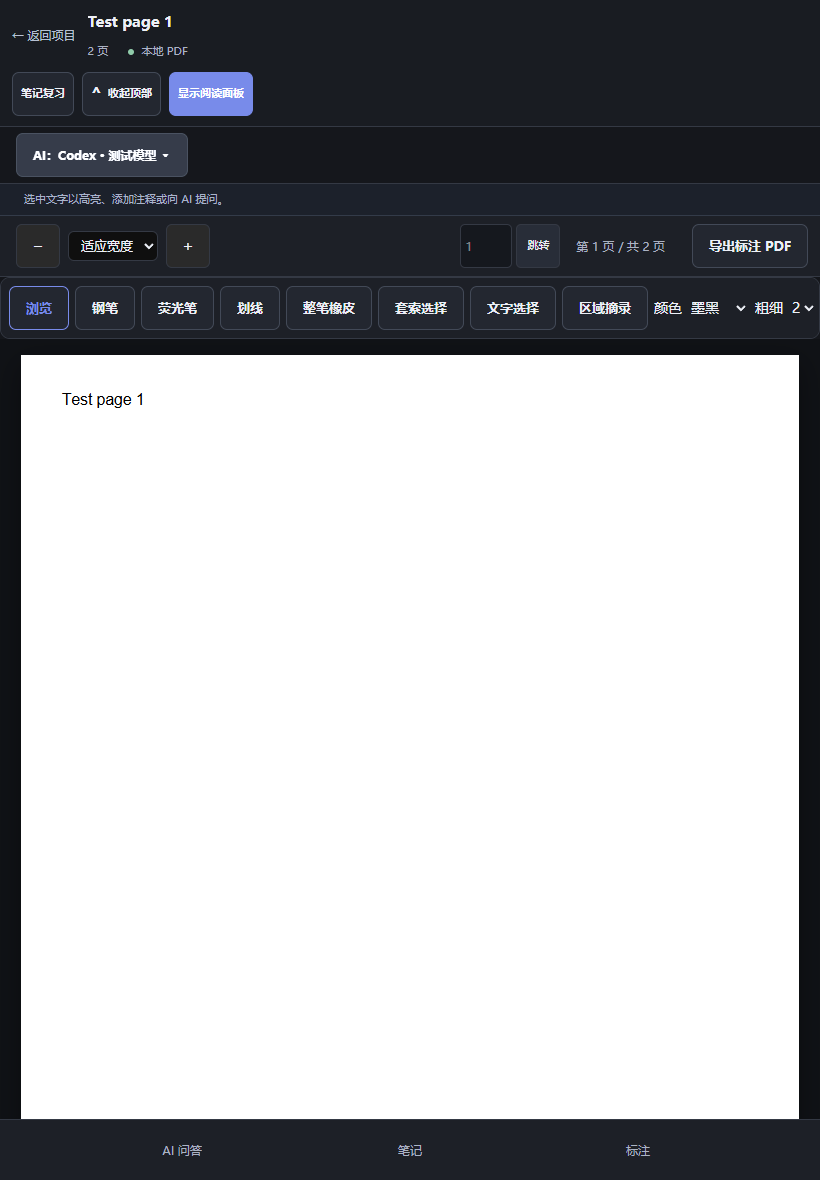
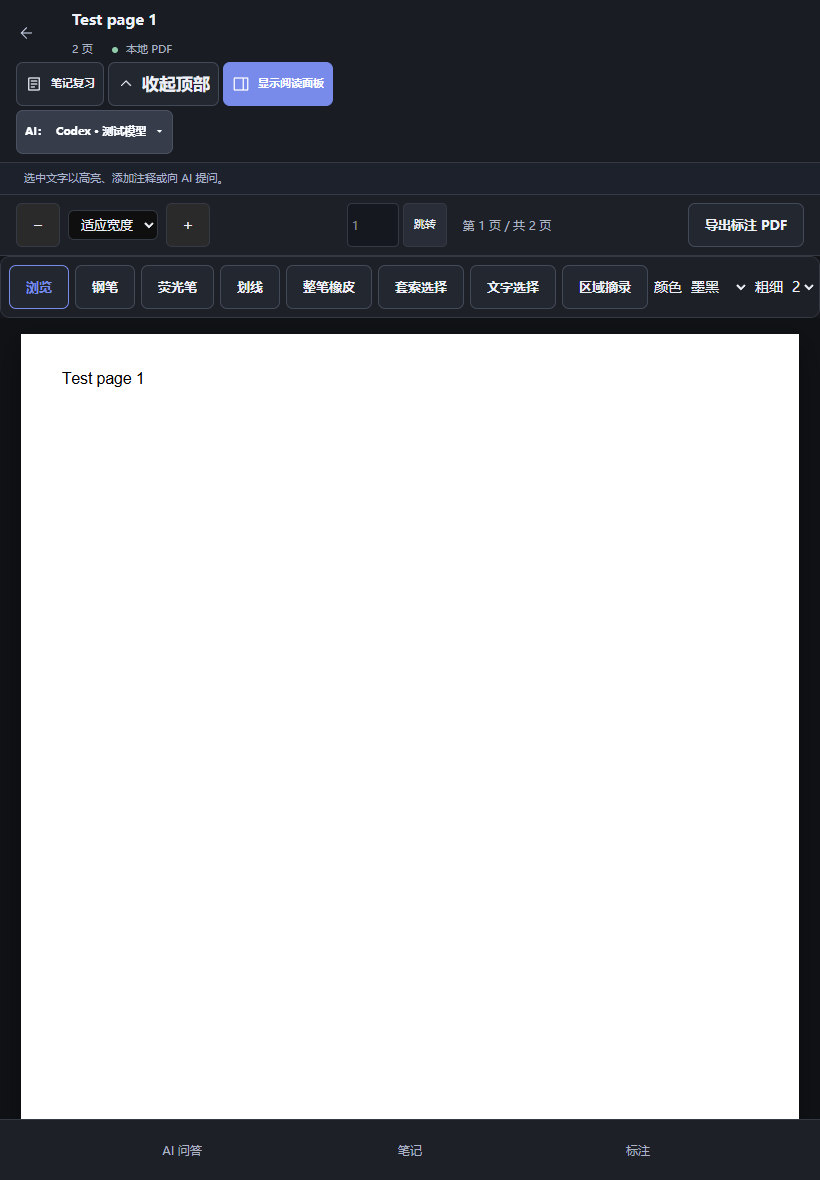
fix: compact collapsed reader chrome and release Windows 1.3.1

Changed region(s): [[0.0, 0.0, 1.0, 0.3661], [0.4268, 0.1525, 0.4878, 0.1831]]

diff --git a/frontend/src/pages/ReaderPage.tsx b/frontend/src/pages/ReaderPage.tsx
@@ -1,6 +1,7 @@
 import InkReview from '../ink/InkReview'
 import useReaderLayout from '../hooks/useReaderLayout'
 import ReaderTools from '../components/ReaderTools'
+import ReaderIcon from '../components/ReaderIcon'
 import {useEffect,useRef,useState} from 'react'
 import {Link,useParams,useNavigate,useLocation} from 'react-router-dom'
 import PdfViewer from '../components/PdfViewer'
@@ -73,28 +74,30 @@ export default function ReaderPage({documentSourceId,initialNoteId}:{documentSou
  function openReference(reference:ChatReference){if(reference.sourceId===sourceId){setPageRequest({page:reference.page,key:Date.now(),excerpt:reference.excerpt});setNotice('已跳转到引用页；匹配到的原文会临时标亮。')}else navigate('/projects/'+projectId+'/sources/'+reference.sourceId,{state:{citation:reference,returnContext:originContext()}})}
  function saveProgress(page:number){readingPage.current=page;if(progress.current)clearTimeout(progress.current);progress.current=setTimeout(()=>{sourcesApi.updateLastPageRead(projectId!,sourceId!,page).catch(()=>{})},500)}
  function openAnchor(anchor:NoteAnchor){if(anchor.sourceId!==sourceId){navigate(`/projects/${projectId}/sources/${anchor.sourceId}`,{state:{citation:{sourceId:anchor.sourceId,page:anchor.page,excerpt:anchor.text},returnContext:originContext()}});return}const changed=anchor.contentHash&&source?.content_hash&&anchor.contentHash!==source.content_hash;setPageRequest({page:anchor.page,key:Date.now(),excerpt:anchor.text,rects:changed?undefined:anchor.rects});setNotice(changed?'文件内容已改变，文字匹配位置需核实。':'已定位笔记对应的原文。');if(review)setFocused(false)}
- return <div className={`reading-workspace ${review?'is-review':''}`} style={{'--viewport-height':viewportHeight+'px'} as React.CSSProperties}>
+ return <div className={`reading-workspace ${review?'is-review':''} ${topCollapsed?'is-top-collapsed':''}`} style={{'--viewport-height':viewportHeight+'px'} as React.CSSProperties}>
   <div className={`reader-topbar ${topCollapsed?'is-collapsed':''}`}>
    <header className="reading-header">
-    <Link to={`/projects/${projectId}`} className="reader-back">← 返回项目</Link>
+    <Link to={`/projects/${projectId}`} className="reader-back" aria-label="返回项目" title="返回项目"><ReaderIcon name="back"/><span className="reader-action-label">返回项目</span></Link>
     <div className="reading-title">
      <h1 title={source?.title}>{source?.title||'正在加载文献…'}</h1>
      {!topCollapsed&&<span>{source?.pages||0} {source?.type==='text'?'段':'页'} <span className="status-dot"/>{source?.type==='text'?'本地文档':'本地 PDF'}</span>}
     </div>
-    <div className="reader-header-actions"><button className="secondary" onClick={()=>{setReview(v=>!v);setFocused(!review&&window.innerWidth<900);setPanel('notes')}}>{review?'返回阅读':'笔记复习'}</button>{review&&<button className="secondary" onClick={()=>setFocused(v=>!v)}>{focused?'显示原文':'收起原文'}</button>}
+    <AiControlPanel compact minimized/>
+    <div className="reader-header-actions"><button className="secondary" aria-label={review?'返回阅读':'笔记复习'} title={review?'返回阅读':'笔记复习'} onClick={()=>{setReview(v=>!v);setFocused(!review&&window.innerWidth<900);setPanel('notes')}}><ReaderIcon name="notes"/><span className="reader-action-label">{review?'返回阅读':'笔记复习'}</span></button>{review&&<button className="secondary" aria-label={focused?'显示原文':'收起原文'} title={focused?'显示原文':'收起原文'} onClick={()=>setFocused(v=>!v)}><ReaderIcon name="panel"/><span className="reader-action-label">{focused?'显示原文':'收起原文'}</span></button>}
      <button type="button" className="secondary reader-top-toggle" aria-expanded={!topCollapsed}
+      aria-label={topCollapsed?'展开顶部':'收起顶部'}
       disabled={!layoutReady} aria-disabled={savingLayout} onClick={()=>void toggleTop()}
       title={topCollapsed?'展开文献信息与 AI 用量':'将顶部缩成工具栏，扩大阅读区域'}>
-      <span aria-hidden="true">{topCollapsed?'⌄':'⌃'}</span>{topCollapsed?'展开顶部':'收起顶部'}
+      <ReaderIcon name={topCollapsed?'down':'up'}/><span className="reader-action-label">{topCollapsed?'展开顶部':'收起顶部'}</span>
      </button>
-     <button className={focused?'primary':'secondary'} aria-pressed={focused} onClick={()=>setFocused(value=>!value)}>{focused?'显示阅读面板':'收起面板'}</button>
+     <button className={focused?'primary':'secondary'} aria-label={focused?'显示阅读面板':'收起面板'} title={focused?'显示阅读面板':'收起面板'} aria-pressed={focused} onClick={()=>setFocused(value=>!value)}><ReaderIcon name="panel"/><span className="reader-action-label">{focused?'显示阅读面板':'收起面板'}</span></button>
+     {returnContext&&<button className="secondary" aria-label="返回引用位置" title="返回引用位置" onClick={()=>navigate(returnContext.route,{state:{restoreContext:returnContext}})}>↶<span className="reader-action-label">返回引用位置</span></button>}
     </div>
    </header>
-   <AiControlPanel compact minimized/>{returnContext&&<button className="secondary" onClick={()=>navigate(returnContext.route,{state:{restoreContext:returnContext}})}>返回引用位置</button>}
   </div>
   {(notice||!topCollapsed)&&<div className={`reading-notice ${topCollapsed?'is-floating':''}`} aria-live="polite">{notice||'选中文字以高亮、添加注释或向 AI 提问。'}{deletedAnnotation&&<button onClick={()=>void undoAnnotationDelete()}>撤销删除标注</button>}{notice&&<button aria-label="关闭提示" onClick={()=>setNotice('')}>×</button>}</div>}
   <main id="main-content" style={{'--panel-width':panelWidth+'px'} as React.CSSProperties} className={`reading-layout study-layout ${focused?'is-focused':''} ${review?'review-layout':''}`}>
-   <section className="paper-stage" aria-label="PDF 阅读区">{loading?<div className="empty-state">正在加载 PDF…</div>:source?<Viewer inkContext={source.type!=='text'&&source.content_hash?{projectId:projectId!,sourceId:sourceId!,contentHash:source.content_hash}:undefined} text={source.pdf_text||''} markdown={source.media_type!=='text/plain'} key={source.id} url={`/api/projects/${projectId}/sources/${sourceId}/file`} pages={source.pages} initialPage={source.last_page_read} pageRequest={pageRequest} annotations={annotations} onPageChange={saveProgress} onTextSelected={(text,anchors)=>{setQuote(text);setSelectionAnchor((anchors||[]).map(anchor=>({...anchor,unit:source.type==='text'?'paragraph' as const:'page' as const,sourceId:sourceId!,contentHash:source.content_hash})));setFocused(false);setPanel('chat')}} onHighlightCreate={data=>create(data)} onNoteCreate={data=>create(data,true)} onAnchoredNote={anchors=>{setDraftRequest({key:Date.now(),draft:{title:anchors[0].text.slice(0,40)||'原文笔记',content:'',tags:[],anchors:anchors.map(anchor=>({...anchor,unit:source.type==='text'?'paragraph' as const:'page' as const,sourceId:sourceId!,contentHash:source.content_hash}))}});setPanel('notes');setFocused(false)}} onHighlightClick={select} onHighlightDelete={remove}/>:<p className="error-message">无法打开 PDF，请返回项目重试。</p>}</section>
+   <section className="paper-stage" aria-label="PDF 阅读区">{loading?<div className="empty-state">正在加载 PDF…</div>:source?<Viewer compactToolbar={topCollapsed} inkContext={source.type!=='text'&&source.content_hash?{projectId:projectId!,sourceId:sourceId!,contentHash:source.content_hash}:undefined} text={source.pdf_text||''} markdown={source.media_type!=='text/plain'} key={source.id} url={`/api/projects/${projectId}/sources/${sourceId}/file`} pages={source.pages} initialPage={source.last_page_read} pageRequest={pageRequest} annotations={annotations} onPageChange={saveProgress} onTextSelected={(text,anchors)=>{setQuote(text);setSelectionAnchor((anchors||[]).map(anchor=>({...anchor,unit:source.type==='text'?'paragraph' as const:'page' as const,sourceId:sourceId!,contentHash:source.content_hash})));setFocused(false);setPanel('chat')}} onHighlightCreate={data=>create(data)} onNoteCreate={data=>create(data,true)} onAnchoredNote={anchors=>{setDraftRequest({key:Date.now(),draft:{title:anchors[0].text.slice(0,40)||'原文笔记',content:'',tags:[],anchors:anchors.map(anchor=>({...anchor,unit:source.type==='text'?'paragraph' as const:'page' as const,sourceId:sourceId!,contentHash:source.content_hash}))}});setPanel('notes');setFocused(false)}} onHighlightClick={select} onHighlightDelete={remove}/>:<p className="error-message">无法打开 PDF，请返回项目重试。</p>}</section>
    <div className="reader-divider" role="separator" aria-label="调整阅读面板宽度" aria-orientation="vertical" aria-valuemin={320} aria-valuemax={720} aria-valuenow={Math.round(panelWidth)} tabIndex={0} onKeyDown={e=>{if(e.key==='ArrowLeft'||e.key==='ArrowRight'){e.preventDefault();setPanelWidth(Math.max(320,Math.min(720,panelWidth+(e.key==='ArrowLeft'?20:-20))))}}} onPointerDown={e=>{e.currentTarget.setPointerCapture(e.pointerId)}} onPointerMove={e=>{if(e.currentTarget.hasPointerCapture(e.pointerId))setPanelWidth(Math.max(320,Math.min(720,window.innerWidth-e.clientX)))}}/>
    <aside ref={panelRef} onKeyDown={event=>{
      if(window.innerWidth>=900||review)return

diff --git a/frontend/src/components/PdfViewer.tsx b/frontend/src/components/PdfViewer.tsx
@@ -21,6 +21,7 @@ pdfjs.GlobalWorkerOptions.workerSrc = new URL('pdfjs-dist/build/pdf.worker.min.m
 type PageRect = { x1: number; y1: number; x2: number; y2: number }
 
 interface Props {
+  compactToolbar?:boolean
   inkContext?:PdfInkContext
   text?: string
   markdown?: boolean
@@ -115,11 +116,13 @@ const PDF_OPTIONS = {
 }
 
 export default function PdfViewer({
-  url, inkContext, initialPage = 1, pageRequest, isResizing, onPageChange, onTextSelected,
+  url, inkContext, compactToolbar=false, initialPage = 1, pageRequest, isResizing, onPageChange, onTextSelected,
   annotations, onHighlightCreate, onNoteCreate, onAnchoredNote, onHighlightClick, onHighlightDelete,
 }: Props) {
   const requestedPage = normalizePage(pageRequest?.page??initialPage)
   const [inkSettings,setInkSettings]=useState(defaultInkSettings)
+  const [annotationToolsOpen,setAnnotationToolsOpen]=useState(false)
+  const showInkTools=!compactToolbar||annotationToolsOpen||inkSettings.mode!=='browse'
   const [numPages, setNumPages] = useState(0)
   const [currentPage, setCurrentPage] = useState(requestedPage)
   const [restored, setRestored] = useState(false)
@@ -325,15 +328,17 @@ export default function PdfViewer({
   }
 
   return (
-    <div ref={containerRef} style={{ height: '100%', display: 'flex', flexDirection: 'column', background: 'var(--bg)', position: 'relative' }}>
+    <div ref={containerRef} className={compactToolbar?'pdf-viewer is-compact':'pdf-viewer'} style={{ height: '100%', display: 'flex', flexDirection: 'column', background: 'var(--bg)', position: 'relative' }}>
       {/* Toolbar */}
       <div className="pdf-toolbar" style={{
         display: 'flex', alignItems: 'center', gap: 8, minHeight: 46, padding: '8px 16px',
         background: 'var(--panel)', borderBottom: '1px solid var(--border)',
         flexShrink: 0, flexWrap: 'wrap',
       }}>
+        {compactToolbar&&inkContext&&<div className="pdf-mode-tabs" role="group" aria-label="阅读模式"><button aria-pressed={!showInkTools} onClick={()=>{setAnnotationToolsOpen(false);setInkSettings(value=>({...value,mode:'browse'}))}}>阅读</button><button aria-pressed={showInkTools} onClick={()=>setAnnotationToolsOpen(true)}>批注</button></div>}
         <button onClick={zoomOut} title="缩小" style={btnStyle}>−</button>
         <select
+          aria-label="缩放比例"
           value={fitWidth ? 'fit' : String(scale)}
           onChange={e => e.target.value === 'fit' ? setFit() : setZoomLevel(parseFloat(e.target.value))}
           style={{ background: '#0f0f0f', color: 'var(--text)', border: '1px solid var(--border)', borderRadius: 6, padding: '3px 8px', fontSize: 13, cursor: 'pointer' }}
@@ -344,19 +349,21 @@ export default function PdfViewer({
           ))}
         </select>
         <button onClick={zoomIn} title="放大" style={btnStyle}>+</button>
+        {compactToolbar&&<button aria-label="上一页" title="上一页" disabled={currentPage<=1} onClick={()=>jump(currentPage-1)} style={btnStyle}>‹</button>}
         <form className="page-jump" onSubmit={event=>{event.preventDefault();const page=Number(pageDraft);if(Number.isInteger(page)&&page>0)jump(page);setPageDraft('')}}>
-          <input aria-label="跳转页码" name="pdfPage" inputMode="numeric" type="number" min={1} max={numPages||1} placeholder={String(currentPage)} value={pageDraft} onChange={event=>setPageDraft(event.target.value)}/><button type="submit">跳转</button>
+          <input aria-label="跳转页码" name="pdfPage" inputMode="numeric" type="number" min={1} max={numPages||1} placeholder={String(currentPage)} value={pageDraft} onChange={event=>setPageDraft(event.target.value)}/>{compactToolbar&&<span className="pdf-page-total" aria-hidden="true">/ {numPages||'…'}</span>}<button type="submit" aria-label="跳转" title="跳转页码">{compactToolbar?'↵':'跳转'}</button>
         </form>
+        {compactToolbar&&<button aria-label="下一页" title="下一页" disabled={!numPages||currentPage>=numPages} onClick={()=>jump(currentPage+1)} style={btnStyle}>›</button>}
         {numPages > 0 && (
-          <span data-testid="page-progress" aria-live="polite" style={{ marginLeft: 8, fontSize: 12, color: 'var(--muted)' }}>
+          <span className="pdf-page-progress" data-testid="page-progress" aria-live="polite" style={{ marginLeft: 8, fontSize: 12, color: 'var(--muted)' }}>
             第 {Math.min(currentPage, numPages)} 页 / 共 {numPages} 页
           </span>
         )}
+        {inkContext&&<div className="pdf-export-action"><ExportDialog compact={compactToolbar} projectId={inkContext.projectId} sourceId={inkContext.sourceId}/></div>}
       </div>
 
-      {inkContext&&<div className="pdf-export-action"><ExportDialog projectId={inkContext.projectId} sourceId={inkContext.sourceId}/></div>}
       {/* PDF scroll area */}
-      {inkContext&&<InkToolbar sourceTools settings={inkSettings} onChange={setInkSettings}/>}
+      {inkContext&&showInkTools&&<InkToolbar sourceTools settings={inkSettings} onChange={setInkSettings}/>}
       <div ref={scrollRef} data-testid="pdf-scroll-area" style={{ flex: 1, overflow: 'auto', padding: '16px 0' }}>
         <Document
           key={url}

diff --git a/frontend/src/styles/reader-chrome.css b/frontend/src/styles/reader-chrome.css
@@ -1,0 +1,65 @@
+/* A document strip and a reading strip; extra tools stay with the task. */
+.reader-topbar .reading-header {
+ display:grid;grid-template-columns:auto minmax(0,1fr) auto;
+ grid-template-areas:"back title actions" "ai ai ai";
+ height:auto;min-height:0;padding:8px 16px;gap:4px 12px;
+}
+.reading-header .reader-back {grid-area:back;display:inline-flex;align-items:center;gap:6px;order:0;min-height:44px}
+.reading-header .reading-title {grid-area:title;min-width:0;order:0}
+.reading-header .reader-header-actions {grid-area:actions;order:0;width:auto;margin:0;gap:4px}
+.reading-header>.ai-entry {grid-area:ai;min-width:0;padding:0;border:0}
+.reading-header .ai-entry>button {max-width:100%;overflow:hidden;white-space:nowrap}
+.reading-header .ai-entry-model {min-width:0;overflow:hidden;text-overflow:ellipsis}
+.reader-header-actions svg {flex-shrink:0}
+.reader-topbar.is-collapsed {display:block;min-height:0;border:0}
+.reader-topbar.is-collapsed .reading-header {
+ grid-template-columns:44px minmax(0,1fr) auto auto;
+ grid-template-areas:"back title ai actions";
+ height:49px;min-height:49px;padding:2px 8px;gap:4px;border-bottom:1px solid var(--border);
+}
+.reader-topbar.is-collapsed .reader-action-label {display:none}
+.reader-topbar.is-collapsed .reader-back {justify-content:center;padding:0}
+.reader-topbar.is-collapsed .reading-title h1 {margin:0;font-size:12px;line-height:1.4}
+.reader-topbar.is-collapsed .reader-header-actions button {
+ width:44px;min-width:44px;height:44px;min-height:44px;padding:0;border-color:transparent;background:transparent;
+}
+.reader-topbar.is-collapsed .reader-header-actions button:hover {background:#2b3341}
+.reader-topbar.is-collapsed .reader-header-actions button[aria-pressed=true] {color:#c6d1ff;background:#2b3341}
+.reader-topbar.is-collapsed .ai-entry {padding:0;max-width:230px}
+.reader-topbar.is-collapsed .ai-entry>button {height:44px;min-height:44px;padding:4px 8px;gap:3px;font-size:11px;background:transparent;border-color:transparent}
+.reading-header .ai-entry-popover {position:absolute;right:8px;top:100%;max-width:calc(100vw - 16px);z-index:70}
+.reading-header .ai-entry {position:relative}
+.pdf-viewer .pdf-toolbar {padding-right:16px!important}
+.pdf-viewer .pdf-export-action {position:static;align-self:auto;margin:0 0 0 auto;flex-shrink:0}
+.pdf-viewer.is-compact .pdf-toolbar {
+ height:53px;min-height:53px;flex-wrap:nowrap!important;gap:4px!important;padding:4px 8px!important;
+ overflow-x:auto;overscroll-behavior-x:contain;scrollbar-width:thin;
+}
+.pdf-viewer.is-compact .pdf-toolbar>* {flex-shrink:0}
+.pdf-mode-tabs {display:flex;align-self:stretch;gap:2px;margin-right:8px;border-right:1px solid var(--border);padding-right:8px}
+.pdf-mode-tabs button {border:0;border-bottom:2px solid transparent;background:transparent;color:var(--muted);padding:0 8px;white-space:nowrap;font:inherit;font-size:12px}
+.pdf-mode-tabs button[aria-pressed=true] {color:#d9e1ff;border-bottom-color:var(--accent)}
+.pdf-viewer.is-compact .pdf-toolbar>button,.pdf-viewer.is-compact .pdf-mode-tabs>button,.pdf-viewer.is-compact .page-jump>button,.pdf-viewer.is-compact .pdf-export-action>button {height:44px;min-height:44px;min-width:44px;padding:4px 8px;border-radius:4px}
+.pdf-viewer.is-compact .pdf-toolbar select {height:36px;max-width:110px}
+.pdf-viewer.is-compact .page-jump {align-items:center;margin:0 4px;gap:4px}
+.pdf-viewer.is-compact .page-jump input {height:32px;width:44px;text-align:center;appearance:textfield}
+.pdf-viewer.is-compact .page-jump input::-webkit-inner-spin-button {appearance:none}
+.pdf-page-total {color:var(--muted);font-size:12px;white-space:nowrap}
+.pdf-viewer.is-compact .pdf-page-progress {position:absolute;width:1px;height:1px;overflow:hidden;clip-path:inset(50%);white-space:nowrap}
+.pdf-viewer.is-compact .pdf-export-action {padding-left:8px;border-left:1px solid var(--border)}
+.pdf-viewer.is-compact .pdf-export-action>button {width:44px}
+.pdf-viewer.is-compact>.ink-toolbar {flex-wrap:nowrap;overflow-x:auto;flex-shrink:0;max-height:57px;gap:4px;padding:6px 8px;border:0;border-bottom:1px solid var(--border);border-radius:0;scrollbar-width:thin}
+.pdf-viewer.is-compact>.ink-toolbar>* {flex-shrink:0;white-space:nowrap}
+.pdf-viewer.is-compact>.ink-toolbar button {padding:4px 10px;font-size:12px}
+@media(max-width:899px) {
+ .reader-topbar:not(.is-collapsed) .reading-header {grid-template-columns:44px minmax(0,1fr);grid-template-areas:"back title" "actions actions" "ai ai"}
+ .reader-topbar:not(.is-collapsed) .reader-header-actions {flex-wrap:wrap}
+ .reader-topbar:not(.is-collapsed) .reader-back .reader-action-label {display:none}
+}
+@media(max-width:600px) {
+ .reader-topbar.is-collapsed .ai-entry-model {display:none}
+ .reader-topbar.is-collapsed .ai-entry>button {width:44px;padding:0}
+ .reader-topbar.is-collapsed .reading-header {gap:2px;padding:2px 4px}
+ .reader-topbar.is-collapsed .reader-header-actions {gap:0}
+ .reading-header .ai-entry-popover {position:fixed;left:8px;right:8px;top:53px;max-width:none}
+}

diff --git a/frontend/src/components/AiControlPanel.tsx b/frontend/src/components/AiControlPanel.tsx
@@ -6,7 +6,7 @@ import { formatTokens } from './AiUsageView'
 export default function AiControlPanel({ compact = false, minimized = false }: { compact?: boolean; minimized?: boolean }) {
   const { agent, setAgent, agents, current, loading, error, refresh } = useAgent()
   const [settings, setSettings] = useState<string | null>(null), [expanded, setExpanded] = useState(!compact)
-  if(minimized)return <section className="ai-entry" aria-label="AI 服务选择与用量"><button className="secondary" aria-expanded={expanded} onClick={()=>setExpanded(v=>!v)}>AI：{current?.label||'未选择'} · {current?.model||'默认模型'} ▾</button>{expanded&&<div className="ai-entry-popover"><AgentSelect agent={agent} setAgent={setAgent} agents={agents}/><p>{current?.available?'当前工具可用':current?.status||'请选择或配置 AI'}</p><p>{current?.usage.reportedCalls?`本软件累计 ${formatTokens(current.usage.totalTokens)} tokens`:'尚无可读取用量'}</p><button className="secondary" onClick={()=>setSettings(current?.id||'api-deepseek')}>配置 AI</button><button className="text-button" onClick={()=>void refresh()}>重新检测</button>{error&&<p role="alert">{error}</p>}</div>}{settings&&<AiSettingsDialog initialProvider={settings} onClose={()=>setSettings(null)}/>}</section>
+  if(minimized)return <section className="ai-entry" aria-label="AI 服务选择与用量"><button className="secondary" aria-expanded={expanded} onClick={()=>setExpanded(v=>!v)} title={`AI：${current?.label||'未选择'} · ${current?.model||'默认模型'}`}>AI：<span className="ai-entry-model">{current?.label||'未选择'} · {current?.model||'默认模型'}</span><span aria-hidden="true"> ▾</span></button>{expanded&&<div className="ai-entry-popover"><AgentSelect agent={agent} setAgent={setAgent} agents={agents}/><p>{current?.available?'当前工具可用':current?.status||'请选择或配置 AI'}</p><p>{current?.usage.reportedCalls?`本软件累计 ${formatTokens(current.usage.totalTokens)} tokens`:'尚无可读取用量'}</p><button className="secondary" onClick={()=>setSettings(current?.id||'api-deepseek')}>配置 AI</button><button className="text-button" onClick={()=>void refresh()}>重新检测</button>{error&&<p role="alert">{error}</p>}</div>}{settings&&<AiSettingsDialog initialProvider={settings} onClose={()=>setSettings(null)}/>}</section>
   return <section className={`ai-console ${compact ? 'is-compact' : ''} ${minimized ? 'is-minimized' : ''}`} aria-label="AI 服务选择与用量">
     <header className="ai-console-header"><div><h2>{compact ? '阅读助手' : '研究助手'}</h2><p>{compact ? current?.label || '选择问答工具' : '选择本次研究使用的 AI，文献库与手动笔记始终在本机。'}</p></div><div className="ai-console-actions">{compact && <AgentSelect agent={agent} setAgent={setAgent} agents={agents}/>}<button className="secondary" onClick={() => setSettings(current?.id || 'api-deepseek')}>AI 设置</button>{!minimized && <button className="text-button" onClick={() => { void refresh() }} aria-label="重新检测 AI 工具">重新检测</button>}{compact && !minimized && <button className="text-button" aria-expanded={expanded} onClick={() => setExpanded(value => !value)}>{expanded ? '收起' : '全部服务'}</button>}</div></header>
     {error && <p className="error-message" role="alert">{error}</p>}{loading && <p className="ai-form-hint">正在检测本机工具…</p>}

diff --git a/frontend/e2e/reader-toolbar.spec.ts b/frontend/e2e/reader-toolbar.spec.ts
@@ -100,4 +100,43 @@ test.describe('collapsible reader toolbar', () => {
     expect(await page.evaluate(() => document.documentElement.scrollWidth <= window.innerWidth)).toBe(true);
     await page.screenshot({ path: test.info().outputPath('reader-collapsed-narrow.png') });
   });
+
+  for (const width of [1440, 1024, 390]) {
+    test(`collapsed reader leaves a two-row header at ${width}px`, async ({ page }) => {
+      await page.setViewportSize({ width, height: 900 });
+      const project = await createProjectViaApi(page, 'Compact reading chrome'), source = await upload(page, project.id);
+      await reader(page, project.id, source.id);
+      await page.getByRole('button', { name: '收起顶部', exact: true }).click();
+      await expect(page.getByRole('button', { name: '展开顶部', exact: true })).toBeEnabled();
+      const header = (await page.locator('.reader-topbar').boundingBox())!;
+      const paper = (await page.getByTestId('pdf-scroll-area').boundingBox())!;
+      expect(header.height).toBeLessThanOrEqual(52);
+      expect(paper.y).toBeLessThanOrEqual(112);
+      await expect(page.getByRole('toolbar', { name: '手写工具', exact: true })).toBeHidden();
+      expect(await page.evaluate(() => document.documentElement.scrollWidth <= innerWidth)).toBe(true);
+      await page.getByRole('button', { name: '批注', exact: true }).click();
+      const ink = page.getByRole('toolbar', { name: '手写工具', exact: true });
+      await expect(ink).toBeVisible();
+      expect((await ink.boundingBox())!.height).toBeLessThanOrEqual(60);
+      await ink.getByRole('button', { name: '钢笔', exact: true }).click();
+      await expect(ink.getByRole('button', { name: '钢笔', exact: true })).toHaveAttribute('aria-pressed', 'true');
+      await page.getByRole('button', { name: '阅读', exact: true }).click();
+      await expect(ink).toBeHidden();
+      expect((await page.getByTestId('pdf-scroll-area').boundingBox())!.y).toBeLessThanOrEqual(112);
+      await page.getByLabel('跳转页码', { exact: true }).fill('2');
+      await page.getByLabel('跳转页码', { exact: true }).press('Enter');
+      await expect(page.getByTestId('page-progress')).toHaveText('第 2 页 / 共 2 页');
+      await page.getByRole('button', { name: '上一页', exact: true }).click();
+      await expect(page.getByTestId('page-progress')).toHaveText('第 1 页 / 共 2 页');
+      await page.getByRole('button', { name: '下一页', exact: true }).click();
+      await expect(page.getByTestId('page-progress')).toHaveText('第 2 页 / 共 2 页');
+      await page.getByRole('button', { name: '阅读', exact: true }).click();
+      await page.screenshot({ path: test.info().outputPath(`compact-reader-${width}.png`) });
+      await page.getByRole('button', { name: '批注', exact: true }).click();
+      await expect(ink.getByRole('button', { name: '浏览', exact: true })).toHaveAttribute('aria-pressed', 'true');
+      await page.getByRole('button', { name: '导出标注 PDF', exact: true }).click();
+      await expect(page.getByRole('dialog', { name: '导出标注 PDF' })).toBeVisible();
+      expect((await page.getByRole('button', { name: '下载 PDF 副本', exact: true }).boundingBox())!.width).toBeGreaterThan(110);
+    });
+  }
 });

diff --git a/frontend/src/components/ExportDialog.tsx b/frontend/src/components/ExportDialog.tsx
@@ -1,8 +1,9 @@
 import {useState} from 'react'
 import Dialog from './ui/Dialog'
+import ReaderIcon from './ReaderIcon'
 import {hasPendingInk} from '../ink/draft-store'
-export default function ExportDialog({projectId,sourceId}:{projectId:string;sourceId:string}){
+export default function ExportDialog({projectId,sourceId,compact=false}:{projectId:string;sourceId:string;compact?:boolean}){
  const [open,setOpen]=useState(false),[error,setError]=useState(''),[busy,setBusy]=useState(false)
  async function download(){setBusy(true);setError('');try{if(await hasPendingInk(projectId,sourceId))throw new Error('仍有手写尚未保存，请先完成同步或处理冲突。');const response=await fetch(`/api/projects/${projectId}/exports`,{method:'POST',headers:{'Content-Type':'application/json'},body:JSON.stringify({kind:'source',id:sourceId})});if(!response.ok)throw new Error((await response.json()).detail||'导出失败。');const url=URL.createObjectURL(await response.blob()),link=document.createElement('a');link.href=url;link.download='标注文献.pdf';link.click();setTimeout(()=>URL.revokeObjectURL(url),60000);setOpen(false)}catch(e){setError((e as Error).message)}finally{setBusy(false)}}
- return <><button className="secondary" onClick={()=>setOpen(true)}>导出标注 PDF</button>{open&&<Dialog open={open} title="导出标注 PDF" onClose={()=>setOpen(false)}><p>导出整篇文献，合并已保存的高光与笔迹，另存为 PDF 副本。</p><p>可编辑笔迹请另行备份。</p>{error&&<p role="alert">{error}</p>}<button className="primary" disabled={busy} onClick={()=>void download()}>{busy?'正在生成…':'下载 PDF 副本'}</button></Dialog>}</>
+ return <><button className="secondary" aria-label="导出标注 PDF" title="导出标注 PDF" onClick={()=>setOpen(true)}>{compact?<ReaderIcon name="download"/>:'导出标注 PDF'}</button>{open&&<Dialog open={open} title="导出标注 PDF" onClose={()=>setOpen(false)}><p>导出整篇文献，合并已保存的高光与笔迹，另存为 PDF 副本。</p><p>可编辑笔迹请另行备份。</p>{error&&<p role="alert">{error}</p>}<button className="primary" disabled={busy} onClick={()=>void download()}>{busy?'正在生成…':'下载 PDF 副本'}</button></Dialog>}</>
 }

diff --git a/frontend/e2e/ink-reader.spec.ts b/frontend/e2e/ink-reader.spec.ts
@@ -2,9 +2,11 @@ import {test,expect} from '@playwright/test'
 import {createProjectViaApi} from './helpers'
 import fs from 'node:fs'
 test('PDF strokes retain native coordinates across zoom and reload',async({page})=>{
+ await page.route('**/api/ui/preferences',route=>route.request().method()==='GET'?route.fulfill({json:{readerTopCollapsed:true}}):route.continue())
  const project=await createProjectViaApi(page,'PDF手写')
  const source=await(await page.request.post(`/api/projects/${project.id}/sources/upload`,{multipart:{file:{name:'教材.pdf',mimeType:'application/pdf',buffer:fs.readFileSync(new URL('../../test/fixtures/sample.pdf',import.meta.url))}}})).json()
  await page.goto(`/projects/${project.id}/sources/${source.id}`)
+ await page.getByRole('button',{name:'批注',exact:true}).click()
  await page.getByRole('button',{name:'钢笔',exact:true}).click()
  const canvas=page.locator('[data-pdf-page="1"] [data-ink-canvas]')
  await expect(canvas).toBeVisible()
@@ -18,5 +20,6 @@ test('PDF strokes retain native coordinates across zoom and reload',async({page}
  await page.getByRole('button',{name:'撤销本页手写',exact:true}).first().click();await expect(canvas.locator('[data-ink-stroke]')).toHaveCount(0);await page.getByRole('button',{name:'重做本页手写',exact:true}).first().click();await expect(canvas.locator('[data-ink-stroke]')).toHaveAttribute('points',points!);await expect(page.locator('[data-pdf-page="1"] .pdf-ink-status')).toContainText('手写已保存')
  await page.reload()
  await expect(page.locator('[data-pdf-page="1"] [data-ink-stroke]')).toHaveAttribute('points',points!)
+ await page.getByRole('button',{name:'批注',exact:true}).click()
  await page.getByRole('button',{name:'整笔橡皮',exact:true}).click()
 })

diff --git a/frontend/src/components/ReaderIcon.tsx b/frontend/src/components/ReaderIcon.tsx
@@ -1,0 +1,2 @@
+const paths={back:'m14 5-7 7 7 7M7 12h14',notes:'M5 4h14v16H5zM8 8h8M8 12h8M8 16h5',panel:'M3 4h18v16H3zM15 4v16',up:'m6 14 6-6 6 6',down:'m6 10 6 6 6-6',previous:'m14 6-6 6 6 6',next:'m10 6 6 6-6 6',download:'M12 3v12m-5-5 5 5 5-5M4 16v5h16v-5'}
+export default function ReaderIcon({name}:{name:keyof typeof paths}){return <svg width="18" height="18" viewBox="0 0 24 24" fill="none" stroke="currentColor" strokeWidth="1.6" strokeLinecap="round" strokeLinejoin="round" aria-hidden="true"><path d={paths[name]}/></svg>}

diff --git a/frontend/src/main.tsx b/frontend/src/main.tsx
@@ -7,6 +7,7 @@ import './workspace.css'
 import './ai.css'
 import './styles/tokens.css'
 import './styles/workspace-shell.css'
+import './styles/reader-chrome.css'
 
 import ProjectsPage from './pages/LibraryPage'
 import ProjectView from './pages/ProjectWorkspace'

diff --git a/docs/VALIDATION-1.3.1.md b/docs/VALIDATION-1.3.1.md
@@ -1,0 +1,29 @@
+# 1.3.1 紧凑顶部验证
+
+日期：2026-10-12。来源：feat/ui-ipad。需求：收起顶部后仍然过大，按用户提供的知云截图重新安排顶部。
+
+## 已验证
+
+- 前后端构建通过；没有修改后端业务或数据库 schema。
+- 浏览器完整回归 74 / 74。1440、1024、390px 下收起标题栏 49px、PDF 工具栏 53px，阅读内容从 y=102px 开始；手写工具展开后保持单行。
+- 回归先复现旧布局 65px 顶部超过 52px 上限，再验证新布局通过；原 1.3.0 实际桌面程序同样复现 64.67px 顶部过高。
+- 阅读／批注切换、钢笔选择、重新进入阅读后的浏览状态、页码 Enter 跳转、前后页、导出对话框与正文按钮尺寸通过。
+- 完整回归最初发现一个并行测试在重载后仍假设手写工具始终显示；将该测试的布局偏好设为独立固定值，并按新交互进入批注后，全套通过。
+- 修复紧凑样式误影响导出对话框正文按钮的问题：44px 宽度断言失败后限制选择器作用域，全文按钮恢复约 120px，并通过完整回归。
+- 发布工具的版本改为参数／package 元数据；保留暂存清单与远端标签绑定保护。标签 5 项、错误暂存拒绝 2 项通过。
+- 独立只读审查：未发现阻塞发布问题，确认 Viewer key 与 InkCanvas 保留、dialog 不被 overflow 裁剪、可访问名称与焦点行为保留。
+
+## 桌面与远端收尾
+
+- Windows x64 NSIS 和 Portable ZIP 已生成，便携包 5,467 个文件通过 7-Zip 完整性检查。
+- 实际 1.3.1 程序的顶部测试通过：header=49、paperTop=102；批注切换、页码导航、偏好重载、导出弹窗、无页面错误。
+- 实际打包程序的原生 SQLite、PDF 导入、高光几何、注释保存、取消高光、渲染隔离和退出后后台停止通过。
+- 用 1.3.0 在隔离目录创建笔记和注释，再由 1.3.1 打开：原内容保留；笔记／PDF 手写、重启、PDF 导出与可编辑备份恢复通过。schema11 不需要新增迁移。
+- 完整暂存程序与打包来源逐文件核对 SHA-256 后记录成功清单。激活时发现用户的固定入口程序正在运行，已暂停替换并请求正常保存退出，没有强制关闭。
+- 固定入口、个人数据摘要和 GitHub 远端结果在实际执行后补记。
+
+## 待后续优化
+
+601px 宽、笔记复习并带返回引用上下文时，AI 浮层左侧外框最多裁剪约 15px，内部内容仍可操作。320px 下同一五动作组合未作为本轮通过门槛；正式验证最小宽度为 390px，Windows 桌面窗口最小宽度为 850px。
+
+本次 iPad 尺寸由浏览器验证，不宣称完成真实 Pencil 验收；原有笔迹算法和保存／导出服务逻辑沿用此前审查。本机个人内容与凭据不读取、不提交。

diff --git a/docs/RELEASE-1.3.1.md b/docs/RELEASE-1.3.1.md
@@ -1,0 +1,15 @@
+# BBGDDG 1.3.1 · 紧凑阅读顶部
+
+参考用户提供的知云阅读布局，修复收起顶部后仍占用过多阅读空间的问题。
+
+- 收起后采用标题栏＋阅读工具栏：标题栏 49px，PDF 工具栏 53px，AI 选择并入标题栏。
+- 阅读／批注分开；阅读时隐藏手写设置，进入批注时展开一行工具，更多设置在工具行内横向滚动。
+- 缩放、页码输入、上一页／下一页和导出集中在同一行。顶部图标保留可访问名称与操作提示。
+- iPad 和窄屏保留 44px 触控面积，长文献名与模型名按可用宽度收缩。
+- 切换布局保留当前文献、笔迹和设置；回到阅读模式会退出绘制状态。
+
+完整浏览器回归 74 项通过，包含 1440、1024、390px 的高度与溢出检查，以及手写重启、页码导航和导出对话框。Windows 打包与固定入口的实测结果见仓库 `docs/VALIDATION-1.3.1.md`。
+
+下载 `BBGDDG-1.3.1-Setup.exe` 安装，或完整解压 `BBGDDG-1.3.1-Portable.zip` 后运行 `BBGDDG.exe`；SHA-256 校验文件随包提供。更新保留本机文献、笔记和账号设置。
+
+本次为 Windows 桌面更新；iPad 独立离线应用和跨设备同步未包含在此次发布中。安装包尚未进行发布者数字签名。

diff --git a/README.md b/README.md
@@ -2,11 +2,11 @@
 
 中文深色 PDF 阅读与研究工作台。把文献、高亮、注释、Markdown 笔记和 AI 对话放在同一个本地工作区。
 
-当前版本：**1.3.0**。本项目基于 [PDFPal](https://github.com/andrepaim/pdfpal) 独立发展，保留上游作者与提交历史，不代表 PDFPal 官方版本。来源与许可见 [NOTICE.md](NOTICE.md)。
+当前版本：**1.3.1**。本项目基于 [PDFPal](https://github.com/andrepaim/pdfpal) 独立发展，保留上游作者与提交历史，不代表 PDFPal 官方版本。来源与许可见 [NOTICE.md](NOTICE.md)。
 
 ## 1.3 工作区与手写标注
 
-[下载 Windows 最新发行版](https://github.com/TIALSUN/BBGDDG/releases/latest) · [桌面版验证记录](docs/VALIDATION-1.3.0.md)
+[下载 Windows 最新发行版](https://github.com/TIALSUN/BBGDDG/releases/latest) · [桌面版验证记录](docs/VALIDATION-1.3.1.md)
 
 - 统一文献、笔记、标注和 AI 工作区，保留搜索与阅读上下文。
 - PDF 和笔记支持钢笔、荧光笔、划线、整笔擦除、套索与撤销重做；鼠标也可操作。
